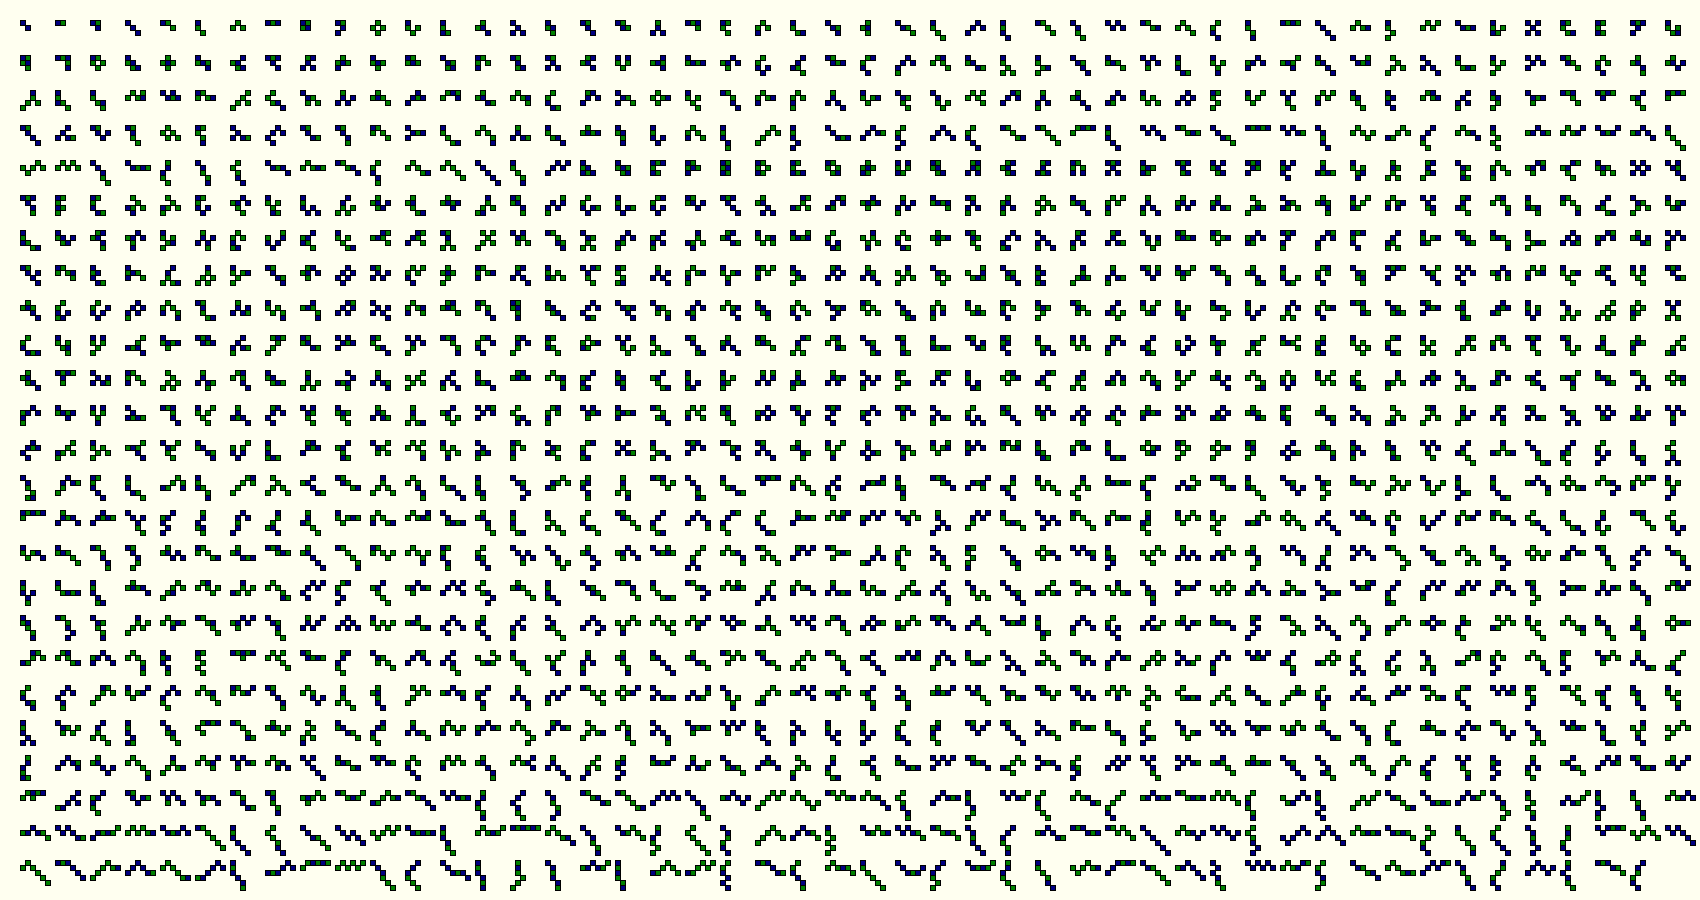
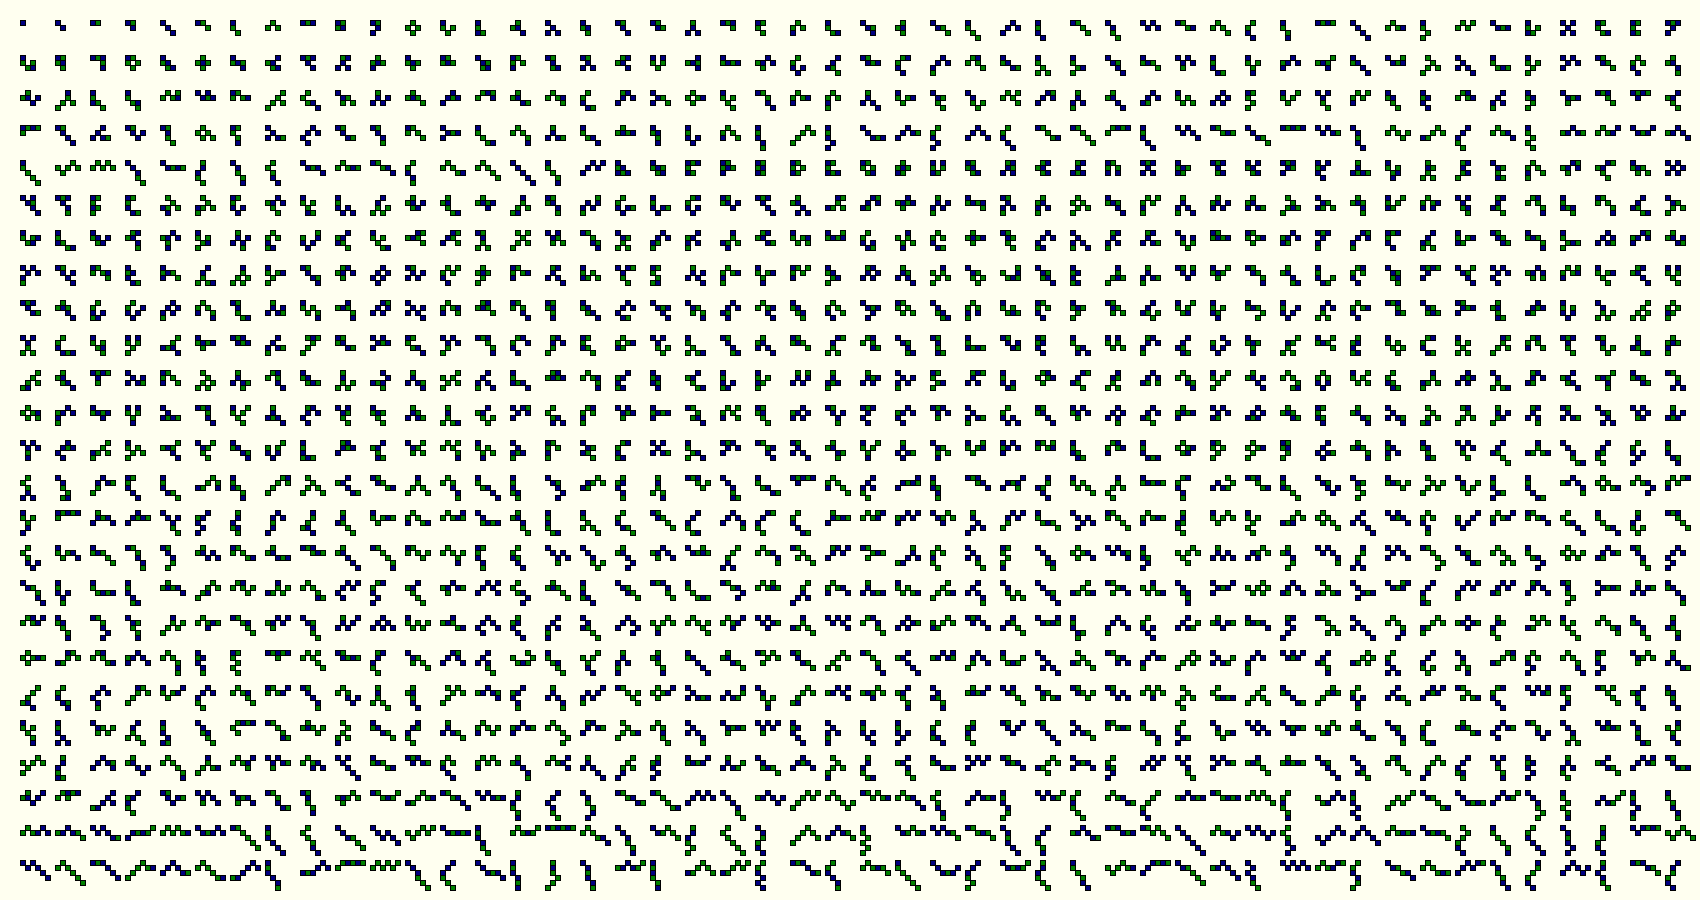
update to include "unit" polyking

Changed region(s): [[0.0, 0.0, 0.9976, 0.9956], [0.8418, 0.0, 0.8729, 0.0311]]

diff --git a/2024/sketch_2024_10_29/polyomino.py b/2024/sketch_2024_10_29/polyomino.py
@@ -96,12 +96,11 @@ class Polyomino(object):
                    color_func(x, y, i)
                 py5.rect(x * w, y *w, w, w) 
             
-
     @classmethod
-    def get_polyominoes(cls, target, up_to=False):
+    def get_polyominoes(cls, target, up_to=False, include_unit=False):
         order = 1
         polyominoes = set([cls(((0,0),))])
-        all_p = set([])
+        all_p = polyominoes if include_unit else set([]) 
         while order < target:
             order += 1
             next_order_polyominoes = set()

diff --git a/2024/sketch_2024_10_28/polyomino.py b/2024/sketch_2024_10_28/polyomino.py
@@ -96,10 +96,10 @@ class Polyomino(object):
             
 
     @classmethod
-    def get_polyominoes(cls, target, up_to=False):
+    def get_polyominoes(cls, target, up_to=False, include_unit=False):
         order = 1
         polyominoes = set([cls(((0,0),))])
-        all_p = set([])
+        all_p = polyominoes if include_unit else set([]) 
         while order < target:
             order += 1
             next_order_polyominoes = set()

diff --git a/2024/sketch_2024_10_29/sketch_2024_10_29.py b/2024/sketch_2024_10_29/sketch_2024_10_29.py
@@ -16,7 +16,7 @@ w = 5   # component square size
 def setup():
     py5.size(1700, 900)
     py5.background(255, 255, 240)
-    polyominoes = Polyomino.get_polyominoes(N, up_to=True) 
+    polyominoes = Polyomino.get_polyominoes(N, up_to=True, include_unit=True) 
     print(len(polyominoes))
     
     x, y = M, M

diff --git a/docs/README.md b/docs/README.md
@@ -38,8 +38,7 @@ Here are listed some of the tools I have been using more recently:
 
 [sketch_2024_10_29](https://github.com/villares/sketch-a-day/tree/main/2024/sketch_2024_10_29) [[py5](https://py5coding.org/)]
 
-1199 polykings of order 2, 3, 4, 5 and 6
-11
+1200 polykings of order 1, 2, 3, 4, 5 and 6 (https://en.wikipedia.org/wiki/Pseudo-polyomino)
 
 ---
 
@@ -48,7 +47,6 @@ Here are listed some of the tools I have been using more recently:
 ![sketch_2024_10_28](https://raw.githubusercontent.com/villares/sketch-a-day/main/2024/sketch_2024_10_28/sketch_2024_10_28.png)
 
 [sketch_2024_10_28](https://github.com/villares/sketch-a-day/tree/main/2024/sketch_2024_10_28) [[py5](https://py5coding.org/)]
-
 
 
 ---
